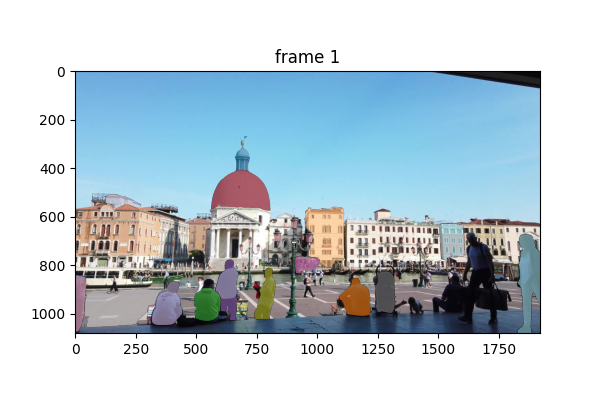
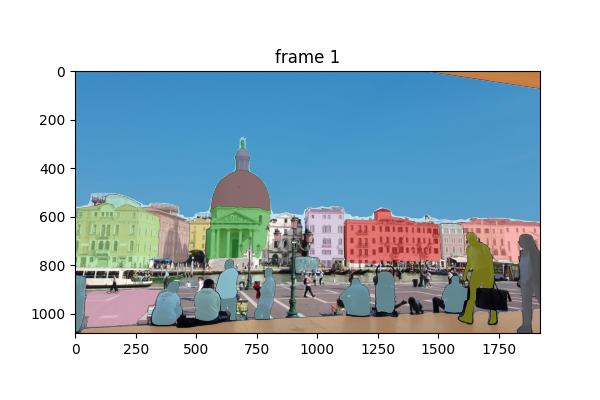
improved segmentation across video frames

diff --git a/notebooks/sam2_script.py b/notebooks/sam2_script.py
@@ -232,7 +232,7 @@ prompts = {}
 ann_frame_idx = 0
 from tqdm import tqdm
 
-for idx, mask in tqdm(enumerate(masks)):
+for idx, mask in tqdm(enumerate(sorted(masks, key=(lambda x: x['area']), reverse=True))):
     
     # # ADD THE ANCHOR POINTS
     # points_mask = np.array(mask['point_coords'])
@@ -290,7 +290,7 @@ for out_frame_idx in range(0, len(frame_names), vis_frame_stride):
         # print(out_obj_id)
         # print(out_mask)
         show_mask(out_mask, plt.gca(), obj_id=out_obj_id)
-        if out_obj_id > 19: break 
+        # if out_obj_id > 19: break 
     plt.savefig(f'./results/seg_sam2_{out_frame_idx}.png')
     plt.show()
 # %%
